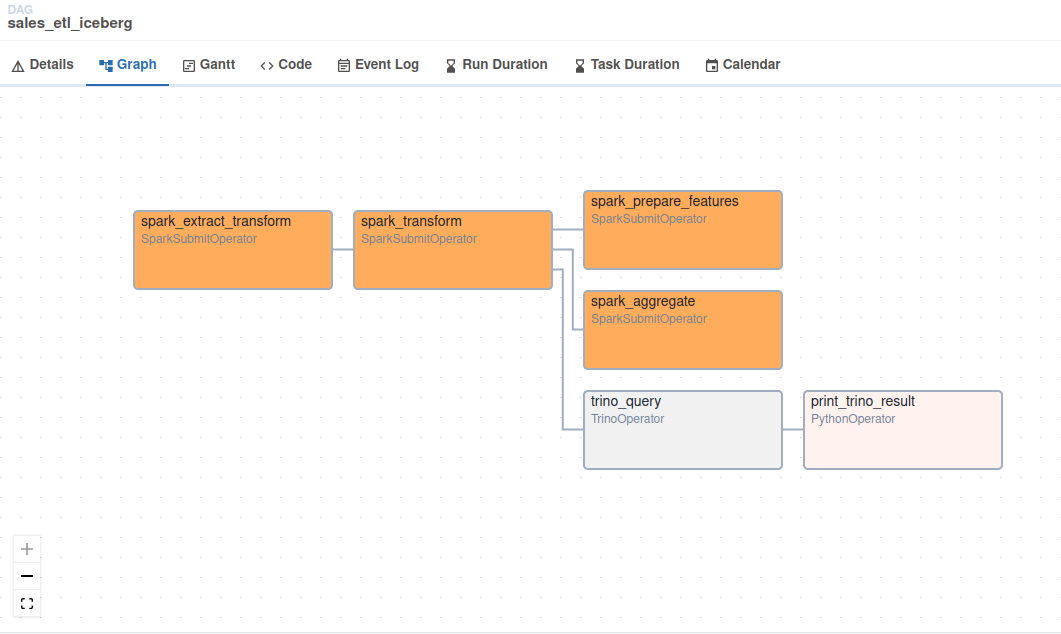
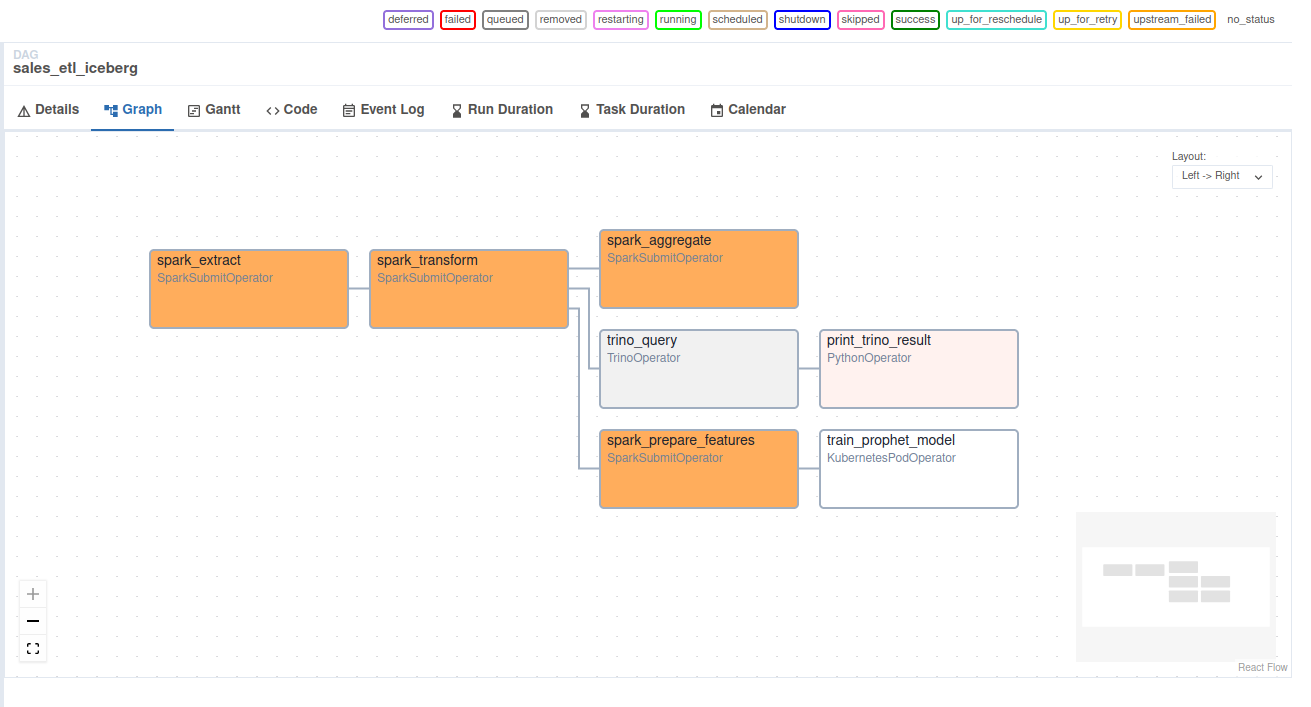
Added scripts for ML training

diff --git a/src/dags/sales_etl_dag.py b/src/dags/sales_etl_dag.py
@@ -2,6 +2,9 @@ from airflow import DAG
 from airflow.providers.apache.spark.operators.spark_submit import SparkSubmitOperator
 from airflow.providers.trino.operators.trino import TrinoOperator
 from airflow.operators.python import PythonOperator
+from airflow.providers.cncf.kubernetes.operators.pod import (
+    KubernetesPodOperator,
+)
 from datetime import datetime
 
 with DAG(
@@ -12,7 +15,7 @@ with DAG(
     tags=["spark", "iceberg", "minio"],
 ) as dag:
     spark_job_extract = SparkSubmitOperator(
-        task_id="spark_extract_transform",
+        task_id="spark_extract",
         application="/opt/airflow/spark_jobs/sales_project/extract.py",
         conn_id="spark_default",
         verbose=True,
@@ -119,6 +122,36 @@ with DAG(
         provide_context=True,
     )
 
-    (spark_job_extract >> spark_job_transform >> spark_prepare_features)
+    train_model_task = KubernetesPodOperator(
+        task_id="train_prophet_model",
+        name="train-prophet",
+        namespace="default",
+        image="airflow-ml-training",
+        image_pull_policy="Always",
+        cmds=["python", "train_prophet.py"],
+        volumes=[],
+        volume_mounts=[],
+        env_vars={
+            "AWS_ACCESS_KEY_ID": "minioadmin",
+            "AWS_SECRET_ACCESS_KEY": "minioadmin",
+            "S3_ENDPOINT": "http://192.168.1.70:9020",
+        },
+        get_logs=True,
+        is_delete_operator_pod=True,
+        in_cluster=False,  # Uses ~/.kube/config if False
+        config_file="/home/airflow/.kube/config",  # Required if not running in-cluster
+        arguments=[],
+        container_resources={
+            "limits": {"memory": "2Gi", "cpu": "1"},
+            "requests": {"memory": "1Gi", "cpu": "0.5"},
+        },
+    )
+
+    (
+        spark_job_extract
+        >> spark_job_transform
+        >> spark_prepare_features
+        >> train_model_task
+    )
     spark_job_transform >> spark_job_aggregate
     spark_job_transform >> trino_task >> print_task

diff --git a/src/ml_jobs/sales_project/train_prophet.py b/src/ml_jobs/sales_project/train_prophet.py
@@ -1,0 +1,32 @@
+import os
+import pandas as pd
+import boto3
+import pickle
+from prophet import Prophet
+from io import BytesIO
+
+import s3fs
+
+S3_BUCKET = "ml"
+FEATURE_PATH = "features/monthly_sales"
+MODEL_PATH = "models/"
+
+# Configure S3
+fs = s3fs.S3FileSystem(
+    key=os.environ["AWS_ACCESS_KEY_ID"],
+    secret=os.environ["AWS_SECRET_ACCESS_KEY"],
+    client_kwargs={"endpoint_url": os.environ["S3_ENDPOINT"]},
+)
+
+# Load the dataset
+df = pd.read_parquet(f"s3://{S3_BUCKET}/{FEATURE_PATH}", filesystem=fs)
+
+# Group by productline and train a model per group
+for productline, group_df in df.groupby("PRODUCTLINE"):
+    group_df = group_df.rename(columns={"month": "ds", "monthly_sales": "y"})
+    model = Prophet()
+    model.fit(group_df)
+
+    # Save model to MinIO
+    with fs.open(f"s3://{S3_BUCKET}/{MODEL_PATH}{productline}_model.pkl", "wb") as f:
+        pickle.dump(model, f)

diff --git a/README.md b/README.md
@@ -39,6 +39,12 @@ This project implements a modern, scalable ETL pipeline using Apache Spark, Apac
 - It enables rich visual dashboards and data exploration over the Iceberg tables.
 - Business users can analyze product performance, seasonal trends, and historical sales via an interactive UI.
 
+### 6. **Machine Learning (ML) Training & Forecasting**
+
+- Spark reads the previously generated Iceberg tables and applies aggregations to generate a dataset for training.
+- The training jobs are executed in a Kubernetes cluster.
+- The model artifacts are stored in a MinIO bucket.
+
 ---
 
 ## 🧰 Technologies Used
